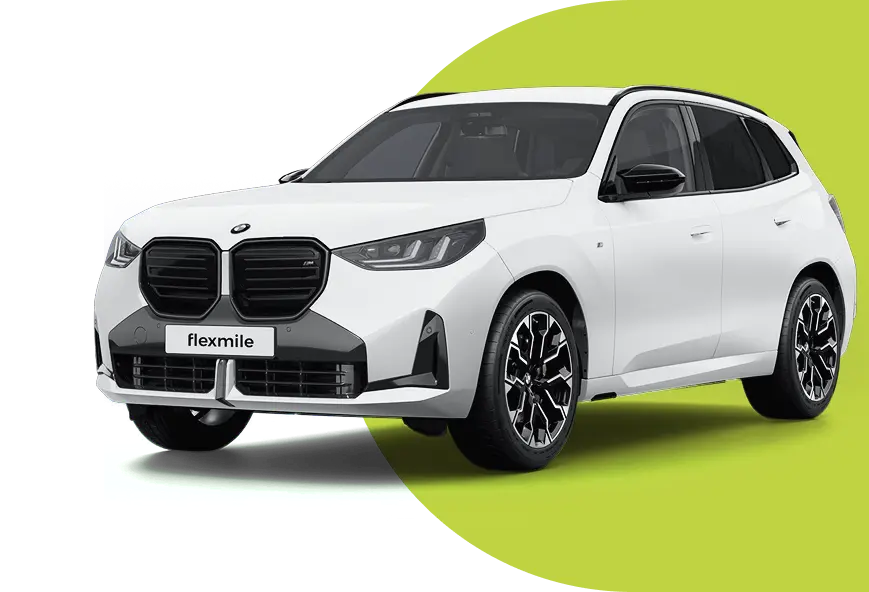
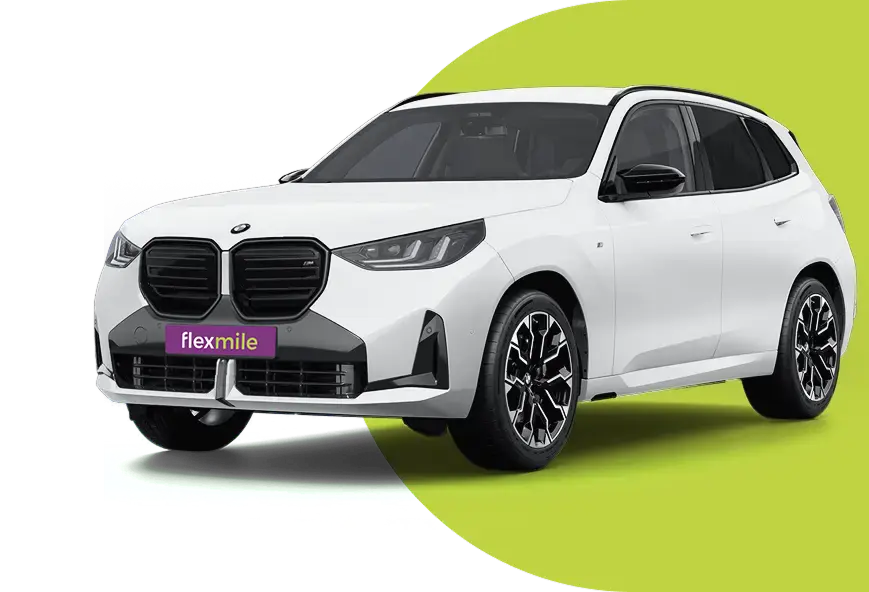
zmiany / fixy / poprawki

Changed region(s): [[0.1864, 0.5473, 0.3418, 0.6385], [0.2486, 0.4865, 0.2796, 0.5169]]

diff --git a/src/app/_components/utilities/footer/footer.html b/src/app/_components/utilities/footer/footer.html
@@ -46,22 +46,24 @@
           </div>
           <div class="contact">
             <div class="flex align-items-center gap-4">
-              <svg xmlns="http://www.w3.org/2000/svg" width="43" height="43" viewBox="0 0 43 43" fill="none">
-                <rect x="0.888889" y="0.888889" width="40.8889" height="40.8889" rx="20.4444" stroke="white"
-                      stroke-width="1.77778"/>
-                <path
-                  d="M21.335 11.4577C26.8205 11.4579 31.2656 15.9028 31.2656 21.3884C31.2655 26.353 27.6213 30.4776 22.8525 31.1989C22.5966 31.2375 22.3368 31.1626 22.1406 30.9938C21.9443 30.825 21.8311 30.5789 21.8311 30.32V24.0134C21.8311 23.5226 22.229 23.1239 22.7197 23.1237H24.0713L24.2012 22.277H22.7197C22.2291 22.2769 21.8312 21.879 21.8311 21.3884V19.7106C21.8311 19.2127 21.9545 18.6187 22.376 18.1393C22.8164 17.6385 23.4604 17.4001 24.2148 17.4001H24.4561V16.8425C24.1166 16.8057 23.7065 16.7722 23.3037 16.7722C22.4699 16.7722 21.8682 17.0287 21.4756 17.4274C21.0825 17.8267 20.8018 18.4671 20.8018 19.4196V21.3884C20.8016 21.879 20.4037 22.2769 19.9131 22.277H18.5049V23.1237H19.9131C20.4039 23.1239 20.8018 23.5226 20.8018 24.0134V30.32C20.8018 30.5789 20.6885 30.825 20.4922 30.9938C20.296 31.1626 20.0362 31.2375 19.7803 31.1989C15.0064 30.4768 11.4045 26.3478 11.4043 21.3884C11.4043 15.9027 15.8492 11.4577 21.335 11.4577Z"
-                  fill="#B6CA40" stroke="white" stroke-width="1.77778" stroke-linejoin="round"/>
+              <svg xmlns="http://www.w3.org/2000/svg" width="64" height="64" viewBox="0 0 64 64" fill="none">
+                <path d="M39.9922 35.9916H35.217V29.6265C35.217 29.3323 34.6787 28.8608 34.3742 28.8482C32.8802 28.9222 31.2672 28.7309 29.7875 28.8401C29.4198 28.867 29.0824 28.9592 28.8629 29.2847C28.8319 29.3305 28.7054 29.6026 28.7054 29.6271V35.9922H23.9922V24.8611C26.6669 22.2567 29.2592 19.5677 31.9612 16.9922L39.9922 24.9865V35.9922V35.9916Z" fill="#C4D145"/>
+                <path d="M30.6094 8.19922C45.347 7.34998 55.6738 21.7814 49.2363 35.3457C47.2106 39.6147 43.581 43.5715 40.5039 47.0869C38.1701 49.7525 35.6275 52.787 33.1162 55.2666C32.8303 55.549 32.5214 55.7635 32.1816 55.8193C31.8317 55.8768 31.4825 55.761 31.1318 55.4551C30.541 54.9395 29.9549 54.2888 29.3887 53.626C28.8191 52.9593 28.2731 52.2843 27.748 51.7041C25.2459 48.9392 22.1097 45.7299 19.375 42.2979C16.6402 38.8657 14.289 35.1903 13.3604 31.4805C10.5088 20.0886 18.9864 8.86896 30.6094 8.19922ZM21.6084 44.7217C23.7575 47.1974 25.9873 49.5173 27.8682 51.5957C28.9221 52.7602 30.0756 54.3186 31.2383 55.333C31.2517 55.3447 31.2659 55.3551 31.2793 55.3662C31.2665 55.3556 31.2531 55.3452 31.2402 55.334C30.0776 54.3195 28.9241 52.7612 27.8701 51.5967C25.8325 49.3451 23.3856 46.8101 21.0752 44.1006L21.6084 44.7217ZM48.7324 31.1592C47.5442 35.5962 44.5178 39.3926 41.5977 42.8496L41.0557 43.4902C38.331 46.7015 35.419 50.0221 32.5459 53.0547C32.4688 53.1361 32.0839 53.5541 32.0049 53.5371L32.0068 53.5391C32.0864 53.555 32.4708 53.1379 32.5479 53.0566C35.6124 49.822 38.72 46.2593 41.5986 42.8516C44.519 39.3942 47.5444 35.5966 48.7324 31.1592ZM31.4736 10.3477C19.5479 10.63 11.3741 22.8023 16.4326 33.8311C18.8622 39.1289 23.8198 44.2548 27.7451 48.6338C29.1601 50.2124 30.6042 51.7655 32.0371 53.332C32.074 53.301 32.1175 53.2611 32.1631 53.2168C32.2758 53.1073 32.3884 52.9859 32.4287 52.9434C35.4903 49.7118 38.5959 46.1518 41.4736 42.7451L41.8047 42.3516C45.2308 38.2722 48.6675 33.7514 49.0576 28.2871C49.7845 18.0952 41.5469 10.1095 31.4736 10.3477ZM22.3799 42.8516C24.1382 44.9237 25.9753 46.9038 27.625 48.7441C27.6754 48.8004 27.7268 48.8559 27.7773 48.9121L27.624 48.7422C25.9748 46.9023 24.1377 44.9232 22.3799 42.8516ZM18.9951 41.5518C19.3566 42.0182 19.7268 42.4804 20.1025 42.9385C19.7271 42.4807 19.3573 42.0188 18.9961 41.5527L18.9951 41.5518ZM20.8574 41C21.1586 41.3789 21.4646 41.7554 21.7744 42.1289C21.4646 41.7554 21.1586 41.3789 20.8574 41ZM18.1621 40.4453C18.1137 40.3794 18.0646 40.3141 18.0166 40.248L18.0146 40.2461C18.0632 40.3129 18.1132 40.3787 18.1621 40.4453ZM24.9824 9.58496C16.5332 12.865 11.1781 22.0957 13.5176 31.4414C14.0161 33.4328 14.9319 35.4165 16.0986 37.3623C14.9325 35.4172 14.0179 33.4341 13.5195 31.4434C11.18 22.0979 16.5337 12.8653 24.9824 9.58496ZM32 14.75C32.2385 14.7497 32.463 14.8482 32.6924 15.0166L32.7383 15.0508L32.7461 15.0566L32.7529 15.0635L43.4443 25.5732L43.459 25.5869L43.4697 25.6045C43.7756 26.1078 43.5798 26.6799 43.1699 26.9629C42.963 27.1057 42.6995 27.1769 42.416 27.1348C42.1876 27.1007 41.9536 26.9945 41.7295 26.8037V36.1992C41.7294 36.4817 41.5605 36.7627 41.3496 36.9629C41.1401 37.1616 40.8527 37.3154 40.5674 37.3057L23.3799 37.3027C23.2608 37.3133 23.1382 37.2728 23.0342 37.2207C22.922 37.1645 22.809 37.0848 22.71 36.9971C22.6109 36.9094 22.5198 36.8089 22.4521 36.709C22.3885 36.6149 22.3302 36.4982 22.3301 36.3818V26.7539C22.2546 26.8234 22.1758 26.8934 22.0898 26.9541C21.9346 27.0637 21.759 27.1413 21.5303 27.1592V27.1699L21.3604 27.1631C20.4625 27.1225 20.0262 26.0738 20.6074 25.4004C20.908 25.0523 21.3039 24.6859 21.7021 24.3291C22.1038 23.9692 22.5071 23.6197 22.8359 23.2979L31.2539 15.0566L31.2617 15.0508C31.5078 14.8628 31.7461 14.7504 32 14.75ZM22.832 36.8867C22.839 36.8928 22.8464 36.8984 22.8535 36.9043C22.8464 36.8984 22.839 36.8928 22.832 36.8867ZM22.6953 36.7529C22.7191 36.7791 22.7452 36.8039 22.7715 36.8291C22.7452 36.8038 22.719 36.7791 22.6953 36.7529ZM22.5947 36.626C22.6194 36.6616 22.6475 36.6977 22.6787 36.7334C22.6475 36.6976 22.6193 36.6616 22.5947 36.626ZM22.5195 36.4951C22.5029 36.4547 22.4941 36.4165 22.4941 36.3828V26.3896L22.4922 26.3906V36.3818L22.4941 36.4072C22.4975 36.4346 22.5066 36.464 22.5195 36.4951ZM34.3633 28.5205C32.8999 28.5922 31.3195 28.406 29.8701 28.5117C29.5099 28.5378 29.1799 28.6281 28.9648 28.9434C28.9344 28.988 28.8112 29.2495 28.8105 29.2744V35.4404H24.1953V35.4424H28.8115V29.2764C28.8115 29.2527 28.9354 28.9887 28.9658 28.9443C29.1809 28.6291 29.5118 28.5398 29.8721 28.5137C31.3213 28.408 32.9011 28.5931 34.3643 28.5215C34.4761 28.526 34.6205 28.5933 34.7568 28.6904C34.62 28.5927 34.4756 28.5252 34.3633 28.5205ZM33.4268 35.4395H30.5127V35.4414H33.4287V30.2168H33.4268V35.4395ZM39.8662 24.7783V35.4395H35.1904V35.4414H39.8682V24.7803L39.8662 24.7783ZM31.9971 17.2607C29.4069 19.7082 26.9282 22.2473 24.3564 24.7256V35.2783H28.6475V29.2744C28.6475 29.2489 28.6541 29.2276 28.6553 29.2236C28.6577 29.2152 28.6607 29.2068 28.6631 29.2002C28.6679 29.1868 28.6742 29.1716 28.6807 29.1562C28.6938 29.1249 28.7107 29.0861 28.7285 29.0479C28.7465 29.0095 28.7654 28.9697 28.7822 28.9365C28.797 28.9074 28.8154 28.8731 28.8301 28.8516C29.0877 28.4741 29.4824 28.3779 29.8584 28.3506L29.9961 28.3408C30.688 28.299 31.4054 28.3182 32.1162 28.3408C32.8775 28.365 33.6318 28.3929 34.3555 28.3574H34.3691C34.4786 28.3619 34.593 28.4056 34.6943 28.46C34.7985 28.5158 34.9032 28.5907 34.9961 28.6738C35.0887 28.7567 35.1738 28.8517 35.2373 28.9492C35.2986 29.0434 35.3506 29.1574 35.3506 29.2744V35.2773H39.7041V24.8467L31.9971 17.2607ZM30.6738 35.2773H33.2646V30.3779H30.6738V35.2773ZM49.1934 28.6084C49.1634 28.9314 49.1225 29.2509 49.0723 29.5674C49.1225 29.2509 49.1634 28.9314 49.1934 28.6084ZM45.3105 16.2451C48.0255 19.4278 49.5525 23.634 49.2197 28.2988L49.207 28.4482C49.211 28.3991 49.2172 28.3501 49.2207 28.3008C49.565 23.4753 47.9196 19.1407 45.0273 15.9219L45.3105 16.2451ZM20.7041 26.666C20.7141 26.6786 20.7256 26.69 20.7363 26.7021C20.7256 26.69 20.7141 26.6787 20.7041 26.666ZM41.6035 26.3857C41.6366 26.414 41.6509 26.4938 41.6846 26.5342C41.6514 26.4926 41.6374 26.4123 41.6035 26.3857ZM20.5791 26.4551C20.5885 26.4772 20.6002 26.4982 20.6113 26.5195C20.6003 26.4982 20.5884 26.4772 20.5791 26.4551ZM20.541 26.3467C20.5483 26.3723 20.558 26.397 20.5674 26.4219C20.558 26.397 20.5482 26.3723 20.541 26.3467ZM20.5156 26.2256C20.482 25.9837 20.5458 25.724 20.7314 25.5088C21.3176 24.8297 22.2866 24.0656 22.9512 23.415L31.3623 15.1807C31.7909 14.8535 32.1208 14.8284 32.5322 15.1055C32.1198 14.827 31.7897 14.8518 31.3604 15.1797L22.9502 23.4141L22.8223 23.5371C22.1662 24.1595 21.2801 24.8702 20.7305 25.5068L20.708 25.5342C20.5392 25.7445 20.4829 25.9932 20.5156 26.2256ZM43.332 25.6904C43.3412 25.7056 43.3493 25.7211 43.3574 25.7363C43.3561 25.7338 43.3549 25.7311 43.3535 25.7285L43.3311 25.6885L37.3525 19.8125L43.332 25.6904ZM46.8428 15.291C47.0927 15.5957 47.3326 15.9081 47.5625 16.2275C47.3327 15.908 47.0927 15.5958 46.8428 15.291ZM45.582 13.9014C45.716 14.0349 45.8478 14.1703 45.9775 14.3076C45.8479 14.1703 45.716 14.0349 45.582 13.9014ZM42.9678 13.9854C42.9147 13.9431 42.8622 13.9 42.8086 13.8584L42.8066 13.8574C42.8608 13.8995 42.9141 13.9427 42.9678 13.9854ZM42.3018 11.2891C43.2036 11.856 44.0493 12.4943 44.833 13.1943C44.0494 12.4942 43.2036 11.8561 42.3018 11.2891ZM41.5322 10.8301C38.4086 9.06614 34.6839 8.12813 30.6191 8.3623L30.3496 8.37988C30.276 8.38519 30.2023 8.39228 30.1289 8.39844C30.292 8.38474 30.4557 8.37275 30.6201 8.36328C34.6843 8.12908 38.4089 9.06674 41.5322 10.8301ZM28.9727 8.53125C27.5937 8.73434 26.2682 9.08843 25.0107 9.57422C26.2681 9.08842 27.5938 8.73441 28.9727 8.53125ZM29.5107 8.46094C29.3643 8.47815 29.2185 8.49699 29.0732 8.51758C29.2185 8.49699 29.3643 8.47816 29.5107 8.46094ZM30.0361 8.40625C29.8868 8.41953 29.738 8.43439 29.5898 8.45117C29.738 8.43438 29.8868 8.41954 30.0361 8.40625ZM22.5195 36.4951C22.5325 36.5263 22.5522 36.5574 22.5732 36.5908C22.5523 36.5574 22.5324 36.5263 22.5195 36.4951ZM20.6357 26.5664C20.6512 26.5924 20.6685 26.6172 20.6865 26.6416C20.6685 26.6172 20.6512 26.5924 20.6357 26.5664ZM20.5156 26.2256C20.5199 26.256 20.5269 26.2857 20.5342 26.3154C20.527 26.2857 20.5198 26.2559 20.5156 26.2256Z" fill="white"/>
               </svg>
               <span>Al. Jana Pawła II 27<br>00-867 Warszawa</span>
             </div>
             <div class="flex align-items-center gap-4">
-              <svg xmlns="http://www.w3.org/2000/svg" width="43" height="43" viewBox="0 0 43 43" fill="none">
-                <rect x="0.888889" y="0.888889" width="40.8889" height="40.8889" rx="20.4444" stroke="white"
-                      stroke-width="1.77778"/>
-                <path
-                  d="M21.335 11.4577C26.8205 11.4579 31.2656 15.9028 31.2656 21.3884C31.2655 26.353 27.6213 30.4776 22.8525 31.1989C22.5966 31.2375 22.3368 31.1626 22.1406 30.9938C21.9443 30.825 21.8311 30.5789 21.8311 30.32V24.0134C21.8311 23.5226 22.229 23.1239 22.7197 23.1237H24.0713L24.2012 22.277H22.7197C22.2291 22.2769 21.8312 21.879 21.8311 21.3884V19.7106C21.8311 19.2127 21.9545 18.6187 22.376 18.1393C22.8164 17.6385 23.4604 17.4001 24.2148 17.4001H24.4561V16.8425C24.1166 16.8057 23.7065 16.7722 23.3037 16.7722C22.4699 16.7722 21.8682 17.0287 21.4756 17.4274C21.0825 17.8267 20.8018 18.4671 20.8018 19.4196V21.3884C20.8016 21.879 20.4037 22.2769 19.9131 22.277H18.5049V23.1237H19.9131C20.4039 23.1239 20.8018 23.5226 20.8018 24.0134V30.32C20.8018 30.5789 20.6885 30.825 20.4922 30.9938C20.296 31.1626 20.0362 31.2375 19.7803 31.1989C15.0064 30.4768 11.4045 26.3478 11.4043 21.3884C11.4043 15.9027 15.8492 11.4577 21.335 11.4577Z"
-                  fill="#B6CA40" stroke="white" stroke-width="1.77778" stroke-linejoin="round"/>
+              <svg xmlns="http://www.w3.org/2000/svg" width="64" height="64" viewBox="0 0 64 64" fill="none">
+                <g clip-path="url(#clip0_2516_131225)">
+                  <path d="M43.4638 32.2718C43.4638 38.8853 38.2745 44.1605 31.7675 44.1605C25.2605 44.1605 19.8984 38.8853 19.8984 32.2718C19.8984 25.6584 25.1741 20.2969 31.6811 20.2969C36.4621 20.2969 40.9892 23.3685 42.8361 27.5264C43.5035 29.0285 43.4638 30.5169 43.4638 32.2718Z" fill="#C4D145"/>
+                  <path d="M9.89257 49.3H54.1083C55.7532 49.068 56.8688 47.9014 57 46.2371V17.672C56.8696 16.0215 55.6461 14.8592 54.0211 14.6953L9.74665 14.7221C8.23819 14.8938 7.16578 15.8903 7 17.4132V46.4096C7.15715 47.929 8.37203 49.1413 9.89257 49.3ZM8.73036 18.754L8.99026 18.8825L17.2345 26.2613C18.2189 26.9843 19.3413 26.0292 18.5729 25.0102C15.5758 22.1897 12.356 19.609 9.42112 16.7255L9.81831 16.5193C24.2768 16.2958 38.7725 16.4925 53.2457 16.4201C53.5505 16.4572 53.9157 16.4701 54.1981 16.59C54.3285 16.6453 54.5322 16.7479 54.4096 16.8998C54.2534 17.0922 53.7577 17.3899 53.5436 17.5875C51.2114 19.7359 48.6789 21.8256 46.4192 24.0145C46.1205 24.3036 45.396 24.9481 45.2968 25.3079C44.9954 26.4045 46.1576 26.8739 46.9244 26.1586L55.1842 18.6677L55.2757 19.3105V45.8074L55.0978 46.4502C55.0287 46.5028 54.3121 45.9377 54.1946 45.8445C51.2615 43.5123 48.5831 40.6927 45.681 38.3035C45.0489 37.8204 44.1268 38.1379 44.1242 38.9877C44.1225 39.4726 44.739 39.9584 45.0809 40.2837C47.2611 42.3579 49.6986 44.1888 51.9048 46.2345C52.3572 46.6538 52.7898 47.112 53.1991 47.5727H10.3709L19.1367 39.7229C19.8275 38.9368 19.2515 37.9179 18.2059 38.1896C15.0344 40.8048 11.9951 43.6003 8.94622 46.363C8.90046 46.363 8.73036 46.0248 8.73036 45.9765V18.754Z" fill="white"/>
+                  <path d="M30.1025 44.2058C32.2111 44.3301 34.9457 43.9504 36.8522 43.0143C37.606 42.6441 38.5143 42.2567 38.004 41.3145C37.5377 40.4543 36.9281 40.9548 36.3349 41.2032C29.8245 43.9306 21.8661 41.3844 21.4205 33.5544C21.1598 28.9703 23.4583 24.8323 27.6961 22.9936C33.8603 20.3198 42.0605 23.6123 41.4544 31.1334C41.3231 32.7589 40.3491 35.0782 38.8113 35.8262C37.0318 36.6916 36.2469 35.9427 36.3626 34.0695C36.4955 31.9229 37.1794 29.5751 37.3098 27.4242C37.3296 27.098 37.3996 26.8616 37.1155 26.6709C36.7952 26.4561 35.9732 26.3016 35.671 26.5622C35.4655 26.74 35.4793 27.8349 35.4111 27.8996C35.1727 28.1248 34.6858 27.3664 34.507 27.2067C31.2587 24.3016 26.8629 26.1144 25.5012 29.9462C23.6439 35.1722 27.5441 40.9047 33.0521 37.5777C33.5425 37.2818 33.9147 36.8573 34.4077 36.626C34.9318 37.3327 35.5302 38.2861 36.499 38.419C40.0124 38.8978 42.671 35.2145 43.2443 32.1455C44.9134 23.2119 35.8471 18.2749 28.076 20.7848C16.1189 24.6468 16.4816 43.4017 30.1025 44.2058ZM30.4462 36.2766C25.6696 36.2809 26.0737 28.6537 30.4686 28.0946C36.1709 27.3689 35.4983 36.2723 30.4462 36.2766Z" fill="white"/>
+                </g>
+                <defs>
+                  <clipPath id="clip0_2516_131225">
+                    <rect width="50" height="34.6056" fill="white" transform="translate(7 14.6953)"/>
+                  </clipPath>
+                </defs>
               </svg>
               <span>biuro&#64;flexmile.pl</span>
             </div>

diff --git a/src/app/_components/offer-new/_components/offer-details/offer-details.html b/src/app/_components/offer-new/_components/offer-details/offer-details.html
@@ -49,13 +49,10 @@
                       {{ getFuelLabel(details().fuel_type) }}
                     </div>
                     <div>
-                      <svg xmlns="http://www.w3.org/2000/svg" width="18" height="18" viewBox="0 0 18 18" fill="none">
+                      <svg xmlns="http://www.w3.org/2000/svg" width="18" height="18" viewBox="0 0 24 24" fill="none">
                         <path
-                          d="M15.5254 0C16.9032 0.000206925 17.9998 1.0968 18 2.47461C18 3.62757 17.1845 4.61194 16.0879 4.86523V9C16.0879 9.30924 15.8346 9.56229 15.5254 9.5625H9.5625V13.1348C10.6593 13.3879 11.4746 14.3723 11.4746 15.5254C11.4744 16.9033 10.378 18 9 18C7.62201 18 6.5256 16.8752 6.52539 15.5254C6.52539 14.3723 7.34067 13.3879 8.4375 13.1348V9.5625H3.03711V13.1348C4.13398 13.3879 4.9502 14.3723 4.9502 15.5254C4.94999 16.9033 3.8526 18 2.47461 18C1.0968 17.9998 0.000206924 16.9032 0 15.5254C0 14.3724 0.815465 13.3881 1.91211 13.1348V4.86523C0.815465 4.61194 0 3.62757 0 2.47461C0.000207304 1.0968 1.0968 0.000207304 2.47461 0C3.8526 0 4.94998 1.12478 4.9502 2.47461C4.9502 3.62773 4.13398 4.61211 3.03711 4.86523V8.4375H8.4375V4.86523C7.34067 4.61208 6.52539 3.6277 6.52539 2.47461C6.5256 1.09667 7.65013 0 9 0C10.3499 0 11.4744 1.09667 11.4746 2.47461C11.4746 3.6277 10.6593 4.61208 9.5625 4.86523V8.4375H14.9629V4.86523C13.866 4.61211 13.0498 3.62773 13.0498 2.47461C13.05 1.09667 14.1474 0 15.5254 0ZM2.47461 14.1748C1.71542 14.175 1.125 14.7943 1.125 15.5254C1.12519 16.2846 1.68802 16.875 2.44727 16.875C3.20632 16.8748 3.79667 16.2563 3.79688 15.5254C3.79688 14.7941 3.23398 14.1748 2.47461 14.1748ZM9 14.1748C8.24063 14.1748 7.65039 14.7941 7.65039 15.5254C7.65059 16.2846 8.24076 16.875 9 16.875C9.75924 16.875 10.3494 16.2565 10.3496 15.5254C10.3496 14.7941 9.75937 14.1748 9 14.1748ZM2.47461 1.125C1.71555 1.1252 1.1252 1.71555 1.125 2.47461C1.125 3.20573 1.71542 3.82498 2.47461 3.8252C3.23398 3.8252 3.8252 3.20586 3.8252 2.47461C3.82499 1.71542 3.23385 1.125 2.47461 1.125ZM9 1.125C8.26888 1.125 7.6506 1.71542 7.65039 2.47461C7.65039 3.20586 8.24063 3.8252 9 3.8252C9.75937 3.8252 10.3496 3.20586 10.3496 2.47461C10.3494 1.71542 9.73112 1.125 9 1.125ZM15.5254 1.09668C14.766 1.09668 14.1748 1.71602 14.1748 2.44727C14.175 3.20645 14.7943 3.79688 15.5254 3.79688C16.2846 3.79667 16.875 3.20573 16.875 2.47461C16.8748 1.71554 16.2844 1.09689 15.5254 1.09668Z"
+                          d="M24 3.3C24 1.4625 22.5375 0 20.7 0C18.8625 0 17.4 1.4625 17.4 3.3C17.4 4.8375 18.4875 6.15 19.95 6.4875V11.25H12.75V6.4875C14.2125 6.15 15.3 4.8375 15.3 3.3C15.3 1.4625 13.8 0 12 0C10.2 0 8.7 1.4625 8.7 3.3C8.7 4.8375 9.7875 6.15 11.25 6.4875V11.25H4.05V6.4875C5.5125 6.15 6.6 4.8375 6.6 3.3C6.6 1.5 5.1375 0 3.3 0C1.4625 0 0 1.4625 0 3.3C0 4.8375 1.0875 6.15 2.55 6.4875V17.5125C1.0875 17.85 0 19.1625 0 20.7C0 22.5375 1.4625 24 3.3 24C5.1375 24 6.6 22.5375 6.6 20.7C6.6 19.1625 5.5125 17.85 4.05 17.5125V12.75H11.25V17.5125C9.7875 17.85 8.7 19.1625 8.7 20.7C8.7 22.5 10.1625 24 12 24C13.8375 24 15.3 22.5375 15.3 20.7C15.3 19.1625 14.2125 17.85 12.75 17.5125V12.75H20.7C21.1125 12.75 21.45 12.4125 21.45 12V6.4875C22.9125 6.15 24 4.8375 24 3.3ZM1.5 3.3C1.5 2.2875 2.2875 1.5 3.3 1.5C4.3125 1.5 5.1 2.2875 5.1 3.3C5.1 4.275 4.3125 5.1 3.3 5.1C2.2875 5.1 1.5 4.275 1.5 3.3ZM5.0625 20.7C5.0625 21.675 4.275 22.5 3.2625 22.5C2.25 22.5 1.5 21.7125 1.5 20.7C1.5 19.725 2.2875 18.9 3.3 18.9C4.3125 18.9 5.0625 19.725 5.0625 20.7ZM10.2 3.3C10.2 2.2875 11.025 1.5 12 1.5C12.975 1.5 13.8 2.2875 13.8 3.3C13.8 4.275 13.0125 5.1 12 5.1C10.9875 5.1 10.2 4.275 10.2 3.3ZM13.8 20.7C13.8 21.675 13.0125 22.5 12 22.5C10.9875 22.5 10.2 21.7125 10.2 20.7C10.2 19.725 10.9875 18.9 12 18.9C13.0125 18.9 13.8 19.725 13.8 20.7ZM20.7 5.0625C19.725 5.0625 18.9 4.275 18.9 3.2625C18.9 2.2875 19.6875 1.4625 20.7 1.4625C21.7125 1.4625 22.5 2.2875 22.5 3.3C22.5 4.275 21.7125 5.0625 20.7 5.0625Z"
                           fill="#863087"/>
-                        <path
-                          d="M15.5254 0C16.9032 0.000206925 17.9998 1.0968 18 2.47461C18 3.62757 17.1845 4.61194 16.0879 4.86523V9C16.0879 9.30924 15.8346 9.56229 15.5254 9.5625H9.5625V13.1348C10.6593 13.3879 11.4746 14.3723 11.4746 15.5254C11.4744 16.9033 10.378 18 9 18C7.62201 18 6.5256 16.8752 6.52539 15.5254C6.52539 14.3723 7.34067 13.3879 8.4375 13.1348V9.5625H3.03711V13.1348C4.13398 13.3879 4.9502 14.3723 4.9502 15.5254C4.94999 16.9033 3.8526 18 2.47461 18C1.0968 17.9998 0.000206924 16.9032 0 15.5254C0 14.3724 0.815465 13.3881 1.91211 13.1348V4.86523C0.815465 4.61194 0 3.62757 0 2.47461C0.000207304 1.0968 1.0968 0.000207304 2.47461 0C3.8526 0 4.94998 1.12478 4.9502 2.47461C4.9502 3.62773 4.13398 4.61211 3.03711 4.86523V8.4375H8.4375V4.86523C7.34067 4.61208 6.52539 3.6277 6.52539 2.47461C6.5256 1.09667 7.65013 0 9 0C10.3499 0 11.4744 1.09667 11.4746 2.47461C11.4746 3.6277 10.6593 4.61208 9.5625 4.86523V8.4375H14.9629V4.86523C13.866 4.61211 13.0498 3.62773 13.0498 2.47461C13.05 1.09667 14.1474 0 15.5254 0ZM2.47461 14.1748C1.71542 14.175 1.125 14.7943 1.125 15.5254C1.12519 16.2846 1.68802 16.875 2.44727 16.875C3.20632 16.8748 3.79667 16.2563 3.79688 15.5254C3.79688 14.7941 3.23398 14.1748 2.47461 14.1748ZM9 14.1748C8.24063 14.1748 7.65039 14.7941 7.65039 15.5254C7.65059 16.2846 8.24076 16.875 9 16.875C9.75924 16.875 10.3494 16.2565 10.3496 15.5254C10.3496 14.7941 9.75937 14.1748 9 14.1748ZM2.47461 1.125C1.71555 1.1252 1.1252 1.71555 1.125 2.47461C1.125 3.20573 1.71542 3.82498 2.47461 3.8252C3.23398 3.8252 3.8252 3.20586 3.8252 2.47461C3.82499 1.71542 3.23385 1.125 2.47461 1.125ZM9 1.125C8.26888 1.125 7.6506 1.71542 7.65039 2.47461C7.65039 3.20586 8.24063 3.8252 9 3.8252C9.75937 3.8252 10.3496 3.20586 10.3496 2.47461C10.3494 1.71542 9.73112 1.125 9 1.125ZM15.5254 1.09668C14.766 1.09668 14.1748 1.71602 14.1748 2.44727C14.175 3.20645 14.7943 3.79688 15.5254 3.79688C16.2846 3.79667 16.875 3.20573 16.875 2.47461C16.8748 1.71554 16.2844 1.09689 15.5254 1.09668Z"
-                          stroke="#863087"/>
                       </svg>
                       {{ getTransmissionLabel(details().specs.transmission) }}
                     </div>
@@ -97,12 +94,12 @@
             </div>
             @if (screen.isLowerThanTablet()) {
               <div class="offer__body-form">
-                <div class="header-wrapper pb-4 mb-4">
+                <div class="header-wrapper pb-3 mb-3">
                   <h3 class="block">Wybierz ofertę najmu idealną dla Twojej firmy!</h3>
                 </div>
                 <div class="block">
                   <div>
-                    <div class="xlg:pb-5 pb-4">
+                    <div class="pb-4">
                       <div class="pb-2">Czas trwania umowy <span>(w miesiącach)</span></div>
                       <div class="periods flex gap-2 flex-wrap">
                         @for (period of details().pricing.rental_periods; track period) {
@@ -112,7 +109,7 @@
                         }
                       </div>
                     </div>
-                    <div class="xlg:pb-5 pb-4">
+                    <div class="pb-4">
                       <div class="pb-2">Roczny limit kilometrów <span>(tys. km)</span></div>
                       <div class="mileage flex gap-2 flex-wrap">
                         @for (limit of details().pricing.mileage_limits; track limit) {
@@ -122,7 +119,7 @@
                         }
                       </div>
                     </div>
-                    <div class="xlg:pb-5 pb-4">
+                    <div class="pb-4">
                       <div class="pb-2">Opłata początkowa</div>
                       <div class="initial-payment flex gap-2 flex-wrap">
                         @for (initialPayment of details().pricing.initial_payments; track initialPayment) {
@@ -137,7 +134,7 @@
                       <div class="p">{{ offerService.calculatedPrice | number:'1.0-0' }} PLN
                         <span>/netto mies.</span>
                       </div>
-                      <div class="price-info xlg:pb-5 pb-4"
+                      <div class="price-info pb-4"
                            [ngClass]="{'opacity-0' : offerService.selectedInitialPayment !== 0}">
                         <b>0 zł</b> wpłaty na start!
                       </div>
@@ -303,12 +300,12 @@
         @if (!screen.isLowerThanTablet()) {
           <div class="offer-details-container-r">
             <div class="offer__body-form">
-              <div class="header-wrapper pb-4 mb-4">
+              <div class="header-wrapper pb-3 mb-3">
                 <h3 class="block">Wybierz ofertę najmu idealną dla Twojej firmy!</h3>
               </div>
               <div class="block">
                 <div>
-                  <div class="xlg:pb-5 pb-4">
+                  <div class="pb-4">
                     <div class="pb-2">Czas trwania umowy <span>(w miesiącach)</span></div>
                     <div class="periods flex gap-2 flex-wrap">
                       @for (period of details().pricing.rental_periods; track period) {
@@ -318,7 +315,7 @@
                       }
                     </div>
                   </div>
-                  <div class="xlg:pb-5 pb-4">
+                  <div class="pb-4">
                     <div class="pb-2">Roczny limit kilometrów <span>(tys. km)</span></div>
                     <div class="mileage flex gap-2 flex-wrap">
                       @for (limit of details().pricing.mileage_limits; track limit) {
@@ -328,7 +325,7 @@
                       }
                     </div>
                   </div>
-                  <div class="xlg:pb-5 pb-4">
+                  <div class="pb-4">
                     <div class="pb-2">Opłata początkowa</div>
                     <div class="initial-payment flex gap-2 flex-wrap">
                       @for (initialPayment of details().pricing.initial_payments; track initialPayment) {
@@ -342,7 +339,7 @@
                     <div class="p">{{ offerService.calculatedPrice | number:'1.0-0' }} PLN
                       <span>/netto mies.</span>
                     </div>
-                    <div class="price-info xlg:pb-5 pb-4"
+                    <div class="price-info pb-4"
                          [ngClass]="{'opacity-0' : offerService.selectedInitialPayment !== 0}">
                       <b>0 zł</b> wpłaty na start!
                     </div>

diff --git a/src/app/_components/offer-new/_components/offer-order/offer-order.scss b/src/app/_components/offer-new/_components/offer-order/offer-order.scss
@@ -14,9 +14,14 @@
 
 .offer-order {
   padding-bottom: 120px;
-.__loading{
-  position: fixed;
-}
+  @include mixins.media-query('max', 'xl') {
+    padding-bottom: 0;
+  }
+
+  .__loading {
+    position: fixed;
+  }
+
   .radios {
     label {
       color: #525252;
@@ -90,13 +95,16 @@
       max-width: unset;
       min-width: unset;
     }
+
     & > div {
       background: var(--color-black-50);
       border-radius: var(--border-radius-base);
       position: sticky;
       top: 160px;
       @include mixins.media-query('max', 'xl') {
-        border-radius:0;
+        border-radius: 0;
+        position: static;
+        top: unset;
       }
 
       .right_label {
@@ -157,6 +165,7 @@
         @include mixins.media-query('max', 'xl') {
           max-height: unset;
         }
+
         img {
           display: inline-block;
           max-width: 100%;

diff --git a/src/app/_components/home-page/_components/why-us/why-us.scss b/src/app/_components/home-page/_components/why-us/why-us.scss
@@ -165,11 +165,9 @@
       justify-content: space-between;
       width: 1600px;
       margin: -105px auto 0 auto;
-      @include mixins.media-query('max', 'xxxl') {
-        position: relative;
-        right: -50%;
-        transform: translateX(-50%);
-      }
+      position: relative;
+      right: -50%;
+      transform: translateX(-50%);
       @include mixins.media-query('max', 'xlg') {
         width: 100%;
         margin: 24px auto 0 auto;

diff --git a/src/app/_components/offer-new/_components/offer-order/offer-order.html b/src/app/_components/offer-new/_components/offer-order/offer-order.html
@@ -195,7 +195,7 @@
                            icon="pi-arrow-right"
                            size="large" (clicked)="orderCar()"></flexmile-button>
         </div>
-        @if (screen.screenSize() <= 1024) {
+        @if (screen.screenSize() <= 1023) {
           <div class="p-4">
             <ng-container *ngTemplateOutlet="banners"></ng-container>
           </div>

diff --git a/src/app/_components/offer-new/_components/offer-details/offer-details.scss b/src/app/_components/offer-new/_components/offer-details/offer-details.scss
@@ -452,6 +452,7 @@
   .similar-offers {
     padding-left: 15px;
     padding-right: 15px;
+    padding-bottom: 15px;
   }
 
 }
